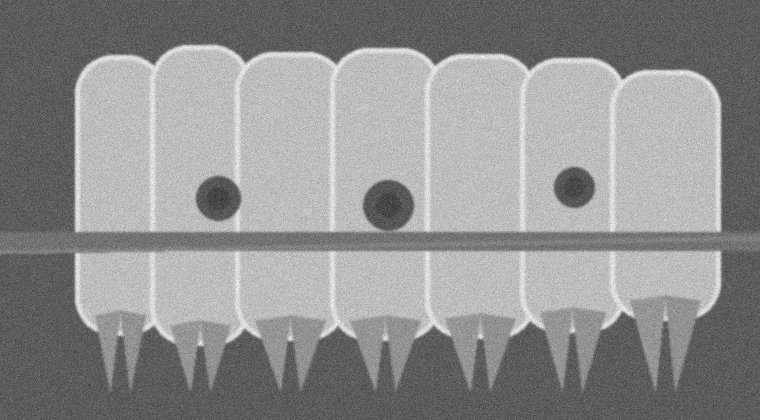
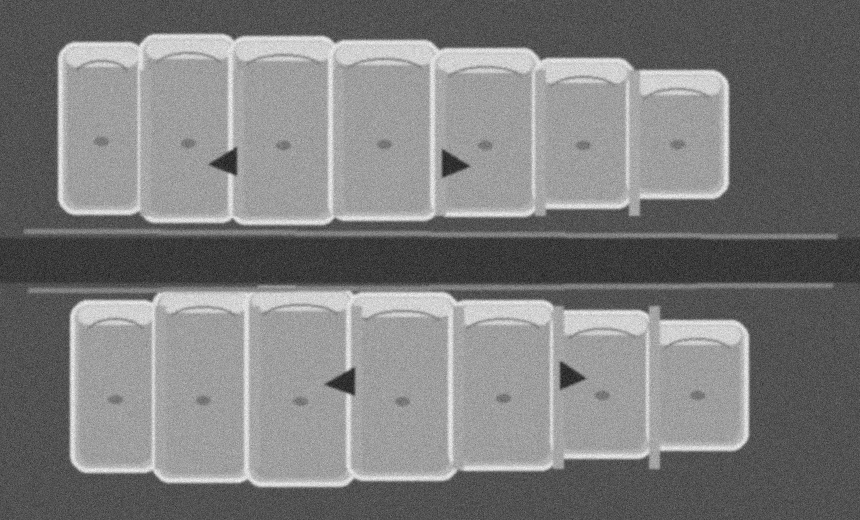
Improve bitewing interproximal caries demo

diff --git a/src/ai_radiology_demo.py b/src/ai_radiology_demo.py
@@ -18,35 +18,51 @@ NP_RNG = np.random.default_rng(42)
 
 
 def make_patch(has_lesion: bool, size: int = 32) -> np.ndarray:
-    """Create a synthetic dental radiograph patch for model training."""
-    base = NP_RNG.normal(168, 18, (size, size)).clip(70, 230)
+    """Create a synthetic interproximal bitewing patch for model training."""
+    base = NP_RNG.normal(150, 14, (size, size)).clip(60, 220)
     yy, xx = np.ogrid[:size, :size]
 
-    # Tooth-like bright structure.
-    cx = RNG.randint(10, 22)
-    cy = RNG.randint(10, 22)
-    rx = RNG.randint(9, 15)
-    ry = RNG.randint(11, 17)
-    tooth = ((xx - cx) / rx) ** 2 + ((yy - cy) / ry) ** 2 <= 1
-    base[tooth] += RNG.randint(20, 45)
+    # Two adjacent proximal enamel surfaces, leaving a narrow contact/interproximal area.
+    left_tooth = np.broadcast_to(xx < RNG.randint(13, 16), base.shape)
+    right_tooth = np.broadcast_to(xx > RNG.randint(17, 20), base.shape)
+    base[left_tooth] += RNG.randint(25, 45)
+    base[right_tooth] += RNG.randint(25, 45)
 
-    # Enamel border / anatomical variation.
-    if RNG.random() < 0.45:
-        base[:, RNG.randint(12, 20) : RNG.randint(21, 29)] += RNG.randint(8, 20)
+    # Brighter enamel edges and slightly darker dentin-like center.
+    base[:, 12:15] += RNG.randint(20, 38)
+    base[:, 17:20] += RNG.randint(20, 38)
+    base[8:26, :10] -= RNG.randint(8, 18)
+    base[8:26, 22:] -= RNG.randint(8, 18)
 
     if has_lesion:
-        lx = RNG.randint(10, 22)
-        ly = RNG.randint(11, 25)
-        radius = RNG.randint(4, 8)
-        lesion = (xx - lx) ** 2 + (yy - ly) ** 2 <= radius**2
-        base[lesion] -= RNG.randint(50, 80)
+        # Interproximal/class II-style triangular radiolucency at the contact area.
+        side = RNG.choice(["left", "right"])
+        y0 = RNG.randint(10, 17)
+        height = RNG.randint(9, 14)
+        if side == "left":
+            lesion = (
+                (xx >= 10)
+                & (xx <= 17)
+                & (yy >= y0)
+                & (yy <= y0 + height)
+                & ((xx - 10) <= (yy - y0) * 0.75 + 1)
+            )
+        else:
+            lesion = (
+                (xx <= 22)
+                & (xx >= 15)
+                & (yy >= y0)
+                & (yy <= y0 + height)
+                & ((22 - xx) <= (yy - y0) * 0.75 + 1)
+            )
+        base[lesion] -= RNG.randint(55, 85)
     elif RNG.random() < 0.35:
-        # Non-lesion dark variation to make the task less trivial.
+        # Non-lesion cervical/interproximal burnout-like variation to make the task less trivial.
         lx = RNG.randint(5, 26)
-        ly = RNG.randint(5, 26)
+        ly = RNG.randint(18, 28)
         radius = RNG.randint(2, 5)
         artifact = (xx - lx) ** 2 + (yy - ly) ** 2 <= radius**2
-        base[artifact] -= RNG.randint(12, 28)
+        base[artifact] -= RNG.randint(10, 24)
 
     return base.clip(0, 255).astype(np.uint8)
 
@@ -75,51 +91,98 @@ def train_patch_classifier() -> RandomForestClassifier:
     """Train a toy classifier on synthetic normal and radiolucent patches."""
     patches = []
     labels = []
-    for _ in range(420):
+    for _ in range(180):
         patches.append(patch_features(make_patch(False)))
         labels.append(0)
         patches.append(patch_features(make_patch(True)))
         labels.append(1)
 
-    model = RandomForestClassifier(n_estimators=140, max_depth=7, random_state=42)
+    model = RandomForestClassifier(n_estimators=60, max_depth=7, random_state=42, n_jobs=1)
     model.fit(np.vstack(patches), np.array(labels))
     return model
 
 
-def create_demo_radiograph(width: int = 760, height: int = 420) -> tuple[Image.Image, list[tuple[int, int, int]]]:
-    """Create a synthetic bitewing-like image with known suspicious dark areas."""
-    img = Image.new("L", (width, height), 92)
+def rounded_tooth(draw: ImageDraw.ImageDraw, box: tuple[int, int, int, int], pulp: bool = True) -> None:
+    """Draw a posterior crown with enamel rim, dentin body, and pulp chamber."""
+    x1, y1, x2, y2 = box
+    draw.rounded_rectangle(box, radius=18, fill=178, outline=224, width=5)
+    inset = 9
+    draw.rounded_rectangle((x1 + inset, y1 + inset, x2 - inset, y2 - inset), radius=14, fill=158)
+    # Occlusal enamel cap and fissure-like anatomy.
+    draw.rounded_rectangle((x1 + 8, y1 + 6, x2 - 8, y1 + 24), radius=10, fill=210)
+    draw.arc((x1 + 16, y1 + 18, x2 - 16, y1 + 48), 200, 340, fill=118, width=2)
+    if pulp:
+        px = (x1 + x2) // 2
+        py = y1 + int((y2 - y1) * 0.58)
+        draw.ellipse((px - 7, py - 4, px + 7, py + 4), fill=118)
+
+
+def draw_interproximal_lesion(
+    draw: ImageDraw.ImageDraw,
+    contact_x: int,
+    contact_y: int,
+    direction: str,
+    depth: int = 28,
+) -> list[tuple[int, int]]:
+    """Draw a triangular proximal/class II-style radiolucency near a contact point."""
+    if direction == "left":
+        points = [
+            (contact_x - 2, contact_y - 13),
+            (contact_x - 2, contact_y + 15),
+            (contact_x - depth, contact_y + 4),
+        ]
+    else:
+        points = [
+            (contact_x + 2, contact_y - 13),
+            (contact_x + 2, contact_y + 15),
+            (contact_x + depth, contact_y + 4),
+        ]
+    draw.polygon(points, fill=48)
+    return points
+
+
+def create_demo_radiograph(width: int = 860, height: int = 520) -> tuple[Image.Image, list[list[tuple[int, int]]]]:
+    """Create a more bitewing-like posterior image with interproximal caries."""
+    img = Image.new("L", (width, height), 82)
     draw = ImageDraw.Draw(img)
 
-    tooth_positions = [
-        (75, 55, 165, 335),
-        (150, 45, 250, 345),
-        (235, 52, 345, 340),
-        (330, 48, 440, 340),
-        (425, 54, 535, 338),
-        (520, 58, 625, 332),
-        (610, 70, 720, 320),
+    upper_teeth = [
+        (58, 42, 145, 214),
+        (138, 34, 238, 222),
+        (228, 36, 338, 224),
+        (328, 40, 440, 220),
+        (430, 48, 540, 216),
+        (532, 58, 634, 208),
+        (626, 70, 728, 198),
+    ]
+    lower_teeth = [
+        (70, 300, 160, 472),
+        (152, 288, 254, 482),
+        (244, 286, 356, 486),
+        (346, 292, 458, 480),
+        (448, 300, 558, 470),
+        (550, 310, 654, 458),
+        (646, 320, 748, 450),
     ]
 
-    for box in tooth_positions:
-        draw.rounded_rectangle(box, radius=38, fill=190, outline=224, width=5)
-        x1, y1, x2, y2 = box
-        root_mid = (x1 + x2) // 2
-        draw.polygon([(x1 + 20, y2 - 20), (root_mid - 10, height - 30), (root_mid, y2 - 25)], fill=150)
-        draw.polygon([(root_mid, y2 - 25), (root_mid + 10, height - 30), (x2 - 20, y2 - 20)], fill=145)
+    for box in upper_teeth + lower_teeth:
+        rounded_tooth(draw, box)
 
-    # Alveolar bone and bitewing-style horizontal separation.
-    draw.rectangle((0, 232, width, 250), fill=115)
-    draw.line((0, 252, width, 238), fill=132, width=5)
+    # Bitewing features: occlusal gap, alveolar crest, and slight projection overlap.
+    draw.rectangle((0, 238, width, 282), fill=58)
+    draw.line((24, 230, width - 24, 236), fill=134, width=6)
+    draw.line((28, 290, width - 28, 284), fill=132, width=6)
+    for x in [145, 238, 338, 440, 540, 634]:
+        draw.rectangle((x - 5, 70, x + 5, 215), fill=168)
+    for x in [160, 254, 356, 458, 558, 654]:
+        draw.rectangle((x - 5, 306, x + 5, 468), fill=165)
 
     suspicious_regions = [
-        (218, 198, 22),
-        (388, 205, 25),
-        (574, 187, 20),
+        draw_interproximal_lesion(draw, 238, 160, "left", 30),
+        draw_interproximal_lesion(draw, 440, 162, "right", 30),
+        draw_interproximal_lesion(draw, 356, 380, "left", 32),
+        draw_interproximal_lesion(draw, 558, 374, "right", 28),
     ]
-    for x, y, r in suspicious_regions:
-        draw.ellipse((x - r, y - r, x + r, y + r), fill=88)
-        draw.ellipse((x - r // 2, y - r // 2, x + r // 2, y + r // 2), fill=72)
 
     img = img.filter(ImageFilter.GaussianBlur(radius=1.1))
     noise = NP_RNG.normal(0, 8, (height, width))
@@ -128,7 +191,7 @@ def create_demo_radiograph(width: int = 760, height: int = 420) -> tuple[Image.I
     return Image.fromarray(arr, mode="L"), suspicious_regions
 
 
-def sliding_window_heatmap(image: Image.Image, model: RandomForestClassifier, patch_size: int = 32, step: int = 8) -> np.ndarray:
+def sliding_window_heatmap(image: Image.Image, model: RandomForestClassifier, patch_size: int = 32, step: int = 12) -> np.ndarray:
     arr = np.array(image)
     heatmap = np.zeros_like(arr, dtype=float)
     counts = np.zeros_like(arr, dtype=float)
@@ -144,7 +207,7 @@ def sliding_window_heatmap(image: Image.Image, model: RandomForestClassifier, pa
     return heatmap
 
 
-def plot_outputs(image: Image.Image, heatmap: np.ndarray, suspicious_regions: list[tuple[int, int, int]]) -> None:
+def plot_outputs(image: Image.Image, heatmap: np.ndarray, suspicious_regions: list[list[tuple[int, int]]]) -> None:
     FIGURES_DIR.mkdir(parents=True, exist_ok=True)
     DATA_DIR.mkdir(parents=True, exist_ok=True)
 
@@ -163,10 +226,15 @@ def plot_outputs(image: Image.Image, heatmap: np.ndarray, suspicious_regions: li
     axes[2].imshow(image, cmap="gray")
     axes[2].set_title("Flagged regions for dentist review")
     axes[2].axis("off")
-    for x, y, r in suspicious_regions:
-        circle = plt.Circle((x, y), r + 14, color="#19a39b", fill=False, linewidth=3)
-        axes[2].add_patch(circle)
-        axes[2].text(x + r + 10, y - r, "review", color="#19a39b", fontsize=10, weight="bold")
+    for polygon in suspicious_regions:
+        xs = [point[0] for point in polygon]
+        ys = [point[1] for point in polygon]
+        pad = 18
+        x0, x1 = min(xs) - pad, max(xs) + pad
+        y0, y1 = min(ys) - pad, max(ys) + pad
+        rect = plt.Rectangle((x0, y0), x1 - x0, y1 - y0, color="#19a39b", fill=False, linewidth=3)
+        axes[2].add_patch(rect)
+        axes[2].text(x1 + 5, y0 + 9, "interproximal\nreview", color="#19a39b", fontsize=9, weight="bold")
 
     fig.suptitle(
         "Educational AI-assisted dental radiology workflow: detection support, not diagnosis",

diff --git a/docs/practical_demo.md b/docs/practical_demo.md
@@ -19,6 +19,18 @@ Real AI tools in dental radiology often work by detecting patterns in radiograph
 
 This demo mirrors that concept in a simplified and transparent way.
 
+## Bitewing and Class II Caries Design
+
+The synthetic image was designed to better match the clinical idea of bitewing radiographs:
+
+- posterior upper and lower crowns are shown
+- the occlusal surfaces are visible
+- proximal contacts are visible between teeth
+- suspected class II-style lesions are placed interproximally, not in the middle of the tooth
+- suspicious regions are drawn as triangular radiolucencies near contact areas
+
+This is important because bitewing radiographs are commonly used to evaluate proximal/interproximal caries in posterior teeth.
+
 ## What The Script Does
 
 The script `src/ai_radiology_demo.py`:

diff --git a/README.md b/README.md
@@ -67,7 +67,9 @@ This repository includes an educational implementation of an AI-assisted dental 
 python src/ai_radiology_demo.py
 ```
 
-The demo trains a small machine-learning classifier on synthetic radiographic patches, scans a synthetic bitewing-style image, creates a probability heatmap, and flags suspicious radiolucent regions for clinician review.
+The demo trains a small machine-learning classifier on synthetic radiographic patches, scans a synthetic bitewing-style image, creates a probability heatmap, and flags suspicious interproximal radiolucent regions for clinician review.
+
+The synthetic example is designed around posterior bitewing interpretation: suspected class II-style caries are placed between teeth near proximal contact areas, not in the middle of the tooth.
 
 Main output:
 
